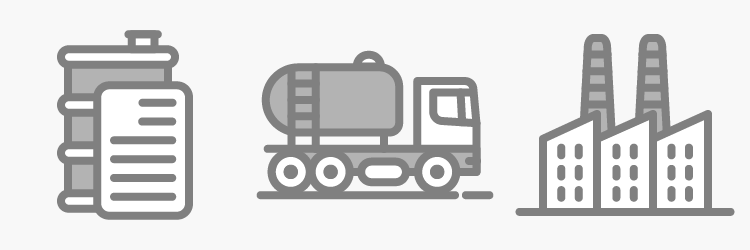
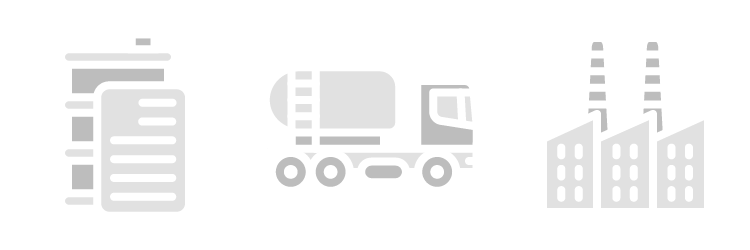
Иконочки бахнуты

diff --git a/src/partials/partners.html b/src/partials/partners.html
@@ -17,14 +17,14 @@
       </div>
 
       <div class="partner-block__content text-center">
-        <p>Журнал <b>"Промышленная и экологическая безопасность, охрана труда" </b>издается с 2006 года при информационной поддержке региональных управлений Ростехнадзора и Росприроднадзора, Инспекций труда. Распространяется среди предприятий реального сектора экономики, по подписке на всей территории Российской Федерации. Основные эксперты журнала - это представители надзорных органов и предприятия, владеющие наилучшими практиками в области промышленной безопасности, охраны труда, экологии и охраны окружающей среды, в том числе и в области обращения с отходами.</p>
-        <p><b>Совместно с компанией "Промтехутилизация" журнал "Промышленная и экологическая безопасность, охрана труда" реализует ряд информационных проектов:</b></p>
+        <p>Журнал <b>"Промышленная и&nbsp;экологическая безопасность, охрана труда" </b>издается с&nbsp;2006 года при информационной поддержке региональных управлений Ростехнадзора и&nbsp;Росприроднадзора, Инспекций труда. Распространяется среди предприятий реального сектора экономики, по&nbsp;подписке на&nbsp;всей территории Российской Федерации. Основные эксперты журнала - это представители надзорных органов и&nbsp;предприятия, владеющие наилучшими практиками в&nbsp;области промышленной безопасности, охраны труда, экологии и&nbsp;охраны окружающей среды, в&nbsp;том числе и&nbsp;в&nbsp;области обращения с&nbsp;отходами.</p>
+        <p><b>Совместно с&nbsp;компанией "Промтехутилизация" журнал "Промышленная и&nbsp;экологическая безопасность, охрана труда" реализует ряд информационных проектов:</b></p>
         <ul>
-          <li>совместная работа над изданием <b>"Решение главных вопросов экологии"</b> для экологов предприятий и организаций;</li>
-          <li><b>ведение экспертной рубрики </b>в журнале "Промышленная и экологическая безопасность, охрана труда" и на сайте издательства, посвященной вопросам обращения с промышленными отходами.</li>
+          <li><b>совместная работа над&nbsp;изданием "Решение главных вопросов экологии"</b> для&nbsp;экологов предприятий и&nbsp;организаций;</li>
+          <li><b>ведение экспертной рубрики </b>в&nbsp;журнале "Промышленная и&nbsp;экологическая безопасность, охрана труда" и&nbsp;на&nbsp;сайте издательства, посвященной вопросам обращения с&nbsp;промышленными отходами.</li>
         </ul>
-        <p>Цели данных проектов - продвижение экологической культуры, культуры обращения с отходами среди предприятий и организаций Российской Федерации, снижение существующих рисков. </p>
-        <button  class="button light-green hover-effect" href="http://prominf.ru/">Перейти на сайт партнера</button >
+        <p>Цели данных проектов - продвижение экологической культуры, культуры обращения с&nbsp;отходами среди предприятий и&nbsp;организаций Российской Федерации, снижение существующих рисков. </p>
+        <button  class="button light-green hover-effect" href="http://prominf.ru/">Перейти на&nbsp;сайт партнера</button >
       </div>
 
     </a>

diff --git a/src/partials/header.html b/src/partials/header.html
@@ -1,13 +1,40 @@
 <header id="header" data-magellan-target="header" class="header row">
 
-  <img data-interchange="[assets/img/header/hero_bg_neft_w640.jpg, small], [assets/img/header/hero_bg_neft_w1024.jpg, medium], [assets/img/header/hero_bg_neft_w1200.jpg, large]">
+  <img class="header-bg" data-interchange="[assets/img/header/hero_bg_neft_w640.jpg, small], [assets/img/header/hero_bg_neft_w1024.jpg, medium], [assets/img/header/hero_bg_neft_w1200.jpg, large]">
 
   <div class="header__text small-12 medium-6 columns">
+
     <h1>
       <span class="light-green">Утилизация</span><br>
       <span class="medium-green">промышленных</span><br>
       <span class="dark-green">отходов</span>
     </h1>
+<!--
+    <div class="row">
+
+      <div class="medium-4 columns">
+        <div class="wrapper">
+          <img class="icon-eco" src="assets/img/icons_block_1.png" alt="" />
+          <h5><b>Паспортизация отходов</b></h5>
+        </div>
+      </div>
+
+      <div class="medium-4 columns">
+        <div class="wrapper">
+          <img class="icon-eco" src="assets/img/icons_block_2.png" alt="" />
+          <h5><b>Транспортировка и&nbsp;сбор</b></h5>
+        </div>
+      </div>
+
+      <div class="medium-4 columns">
+        <div class="wrapper">
+          <img class="icon-eco" src="assets/img/icons_block_3.png" alt="" />
+          <h5><b>Размещение на спец.&nbsp;полигонах</b></h5>
+        </div>
+      </div>
+
+    </div> -->
+
   </div>
 
   <div class="show-for-medium medium-6 columns">
@@ -34,4 +61,7 @@
     </canvas>
   </div>
 
+
 </header>
+
+{{> icon}}

diff --git a/src/assets/scss/components/_header.scss b/src/assets/scss/components/_header.scss
@@ -2,8 +2,7 @@
   position: relative;
   overflow: hidden;
   height: auto;
-  margin-bottom: 3rem;
-  img {
+  .header-bg {
     @include absolute-center;
     top: 45%;
     width: 100%;
@@ -14,9 +13,44 @@
   }
 }
 
+.icons {
+  border: 1px $light-gray solid;
+  border-right: 0;
+  margin-bottom: 3rem;
+
+  .icon-block {
+    display: flex;
+    justify-content: space-between;
+    padding: 0;
+  }
+
+  .icon-text {
+    border-right: 1px $light-gray solid;
+    background-color: $light-silver;
+    width: 100%;
+    display: flex;
+    align-items: center;
+    padding: 0 1rem;
+
+    h2 {
+      color: $dark-gray;
+      margin: 0;
+      // padding: 2.2rem 0;
+      font-size: 1.4rem;
+      font-weight: 500;
+    }
+  }
+
+  .icon {
+    width: 6rem;
+    border-right: 1px $light-gray solid;
+    padding: 1rem;
+  }
+}
+
 .header__text {
   color: $white;
-  padding: 6rem 0;
+  padding: 8rem 0;
   h1 {
     text-transform: uppercase;
     margin: 0;
@@ -46,6 +80,10 @@
       }
     }
   }
+}
+
+.show-for-medium {
+  padding-top: 3rem;
 }
 
 .header-form__button {

diff --git a/src/partials/icon.html b/src/partials/icon.html
@@ -1,0 +1,30 @@
+<div class="icons row">
+
+  <div class="icon-block medium-4 columns">
+    <div class="icon">
+      <img src="assets/img/icons_block_1.png" alt="">
+    </div>
+    <div class="icon-text">
+      <h2>Паспортизация отходов</h2>
+    </div>
+  </div>
+
+  <div class="icon-block medium-4 columns">
+    <div class="icon">
+      <img src="assets/img/icons_block_2.png" alt="">
+    </div>
+    <div class="icon-text">
+      <h2>Транспортировка и&nbsp;сбор</h2>
+    </div>
+  </div>
+
+  <div class="icon-block medium-4 columns">
+    <div class="icon">
+      <img src="assets/img/icons_block_3.png" alt="">
+    </div>
+    <div class="icon-text">
+      <h2>Размещение на&nbsp;спец.&nbsp;полигонах</h2>
+    </div>
+  </div>
+
+</div>

diff --git a/src/assets/scss/components/_services.scss b/src/assets/scss/components/_services.scss
@@ -14,7 +14,7 @@
 .grid-sizer,
 .grid-item {
   position: relative;
-  background-color: $medium-gray;
+  background-color: $white;
   float: left;
   height: 12em;
   margin: 1em;
@@ -77,7 +77,7 @@
   }
   &.x-large-4,
   &.x-large-8 {
-    background-color: $light-gray;
+    background-color: $white;
     z-index: 100;
     cursor: default;
     p {

diff --git a/src/assets/scss/components/_about-us.scss b/src/assets/scss/components/_about-us.scss
@@ -1,7 +1,7 @@
 .about-us, .partners {
   margin-bottom: 1.5rem;
   p {
-    text-align: justify;
+    text-align: left;
   }
   color: $dark-gray;
 }

diff --git a/src/assets/scss/app.scss b/src/assets/scss/app.scss
@@ -63,4 +63,3 @@
 @import 'components/pages';
 @import 'components/partners';
 @import 'components/company';
-@import 'components/icons';

diff --git a/src/pages/index.html b/src/pages/index.html
@@ -6,7 +6,6 @@ serv-up: Страница услуги
 
 {{> nav}}
 {{> header}}
-{{> icons}}
 {{> services}}
 {{> about-us}}
 {{> up}}
